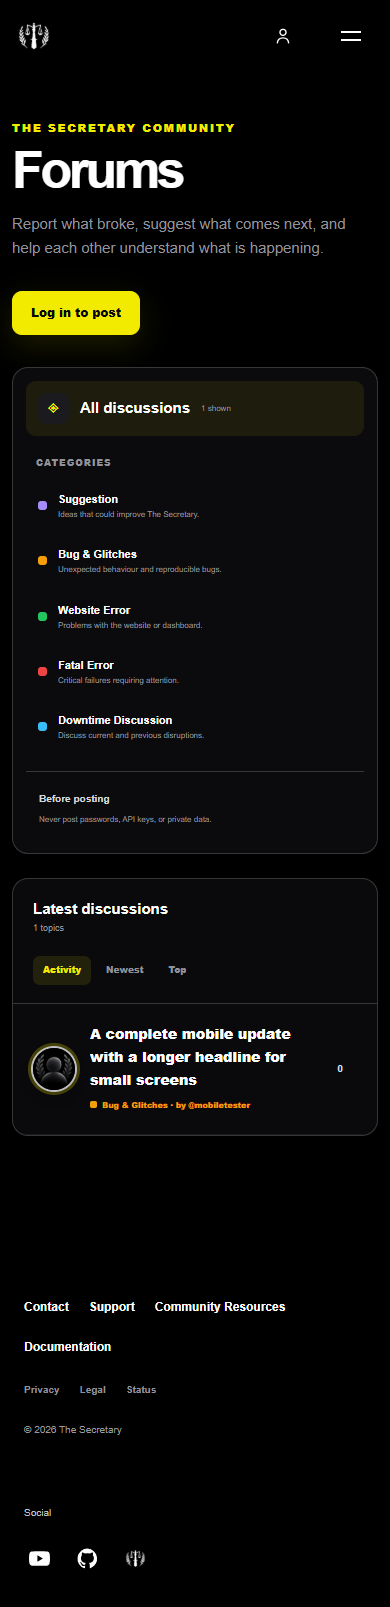
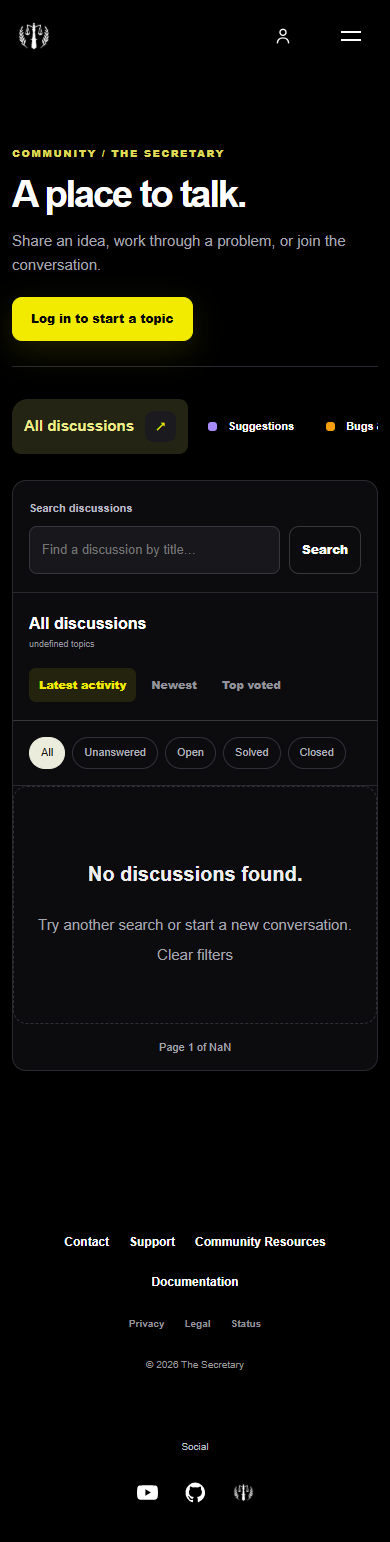
V0.0.5.7

diff --git a/site/assets/mobile.css b/site/assets/mobile.css
@@ -88,3 +88,31 @@
   body .hero-copy { right: 24px; max-width: none; grid-template-columns: 110px minmax(0,1fr); }
   body .hero-poster-logo { width: 110px; height: 110px; }
 }
+/* Center the mobile homepage and shared menus, keeping desktop composition intact. */
+@media (max-width: 960px) {
+  body .hub-header { background: transparent; backdrop-filter: none; }
+  body .hub-header.scrolled { background: rgba(0,0,0,.78); backdrop-filter: blur(18px); }
+  body .hub-header.mobile-open { background: rgba(0,0,0,.78); backdrop-filter: blur(18px); }
+  body .hub-nav { align-items: center; text-align: center; background: rgba(0,0,0,.88); }
+  body .hub-nav-link { justify-content: center; }
+  body.hub-body main { text-align: center; }
+  body .hero-copy { text-align: center; }
+  body .hero-copy-text h1 { margin-inline: auto; }
+  body .hero-controls { right: auto; left: 50%; width: max-content; max-width: 100%; transform: translateX(-50%); }
+  body .section-title { flex-direction: column; align-items: center; justify-content: center; text-align: center; }
+  body .pinned-copy { align-items: center; text-align: center; }
+  body .showcase-content { grid-template-columns: minmax(0,1fr); justify-items: center; }
+  body .showcase-content > div { max-width: 650px; }
+  body .showcase-buttons { justify-content: center; }
+  body .scroll-story-copy { align-items: center; text-align: center; }
+  body .updates-signup { justify-items: center; text-align: center; }
+  body .updates-copy p { margin-inline: auto; }
+  body .hub-footer .footer-top, body .hub-footer .footer-bottom { flex-direction: column; align-items: center; justify-content: center; text-align: center; }
+  body .hub-footer nav { justify-content: center; }
+  body .hub-footer .footer-social { justify-content: center; }
+  body .hub-footer .footer-bottom p { max-width: 100%; text-align: center; }
+}
+@media (max-width: 640px) {
+  body .hub-hero { padding-top: 0; }
+  body .hero-poster-logo { margin-inline: auto; }
+}

diff --git a/site/assets/layout.js b/site/assets/layout.js
@@ -99,6 +99,7 @@ function bindLayout(profile) {
   if (!shell || !drawer || !toggle) return;
   let drawerOpen = false;
   let lastY = scrollY;
+  shell.classList.toggle('scrolled', scrollY > 10);
   const setDrawer = (open) => { drawerOpen = open; shell.classList.toggle('drawer-open', open); toggle.setAttribute('aria-expanded', String(open)); drawer.setAttribute('aria-hidden', String(!open)); };
   toggle.addEventListener('click', () => {
     if (matchMedia('(max-width: 960px)').matches) { location.href = '/posts/'; return; }

diff --git a/work/center_mobile.py b/work/center_mobile.py
@@ -1,0 +1,2 @@
+from pathlib import Path
+p=Path('site/assets/layout.js');s=p.read_text(encoding='utf-8');s=s.replace("  let lastY = scrollY;", "  let lastY = scrollY;\n  shell.classList.toggle('scrolled', scrollY > 10);");p.write_text(s,encoding='utf-8')
